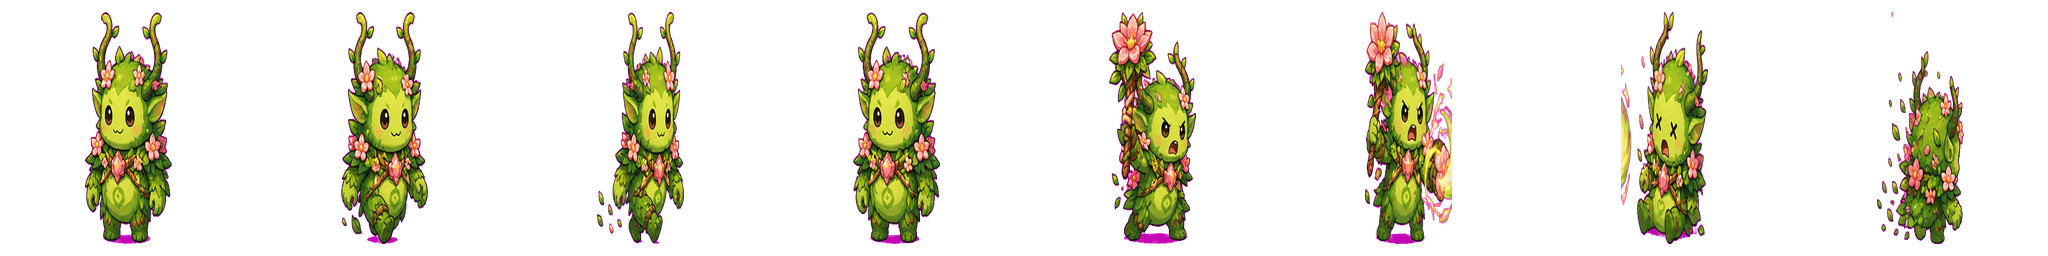
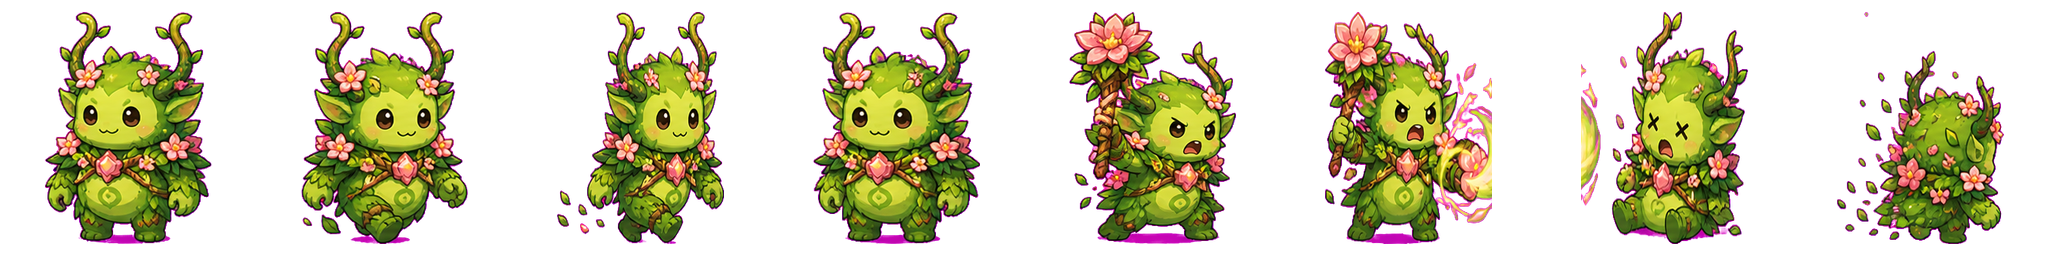
feat: add new world boss and monster assets; update display scaling and processing script

diff --git a/src/gameConfig.ts b/src/gameConfig.ts
@@ -193,13 +193,13 @@ export const WORLD_ENEMY_THEMES: Record<SeasonPreset, {
     eliteFramePrefix: 'world-elite-day-spring',
     eliteIdleFrames: [0, 1, 2, 3],
     eliteDefeatFrame: 7,
-    eliteDisplayScaleX: 1.95,
-    eliteDisplayScaleY: 0.98,
+    eliteDisplayScaleX: 1,
+    eliteDisplayScaleY: 1,
     bossAssetKey: 'worldBoss_day_spring',
     bossFramePrefix: 'world-boss-day-spring',
     bossIdleFrames: [0, 1, 2, 3],
     bossDefeatFrame: 7,
-    bossDisplayScaleX: 2.15,
+    bossDisplayScaleX: 1,
     bossDisplayScaleY: 1,
     eliteSpawnChance: 0.34,
     preferredArchetypes: ['sprite', 'blob', 'mushroom'],
@@ -214,13 +214,13 @@ export const WORLD_ENEMY_THEMES: Record<SeasonPreset, {
     eliteFramePrefix: 'world-elite-afternoon-summer',
     eliteIdleFrames: [0, 1, 2, 3],
     eliteDefeatFrame: 7,
-    eliteDisplayScaleX: 1.95,
-    eliteDisplayScaleY: 0.98,
+    eliteDisplayScaleX: 1,
+    eliteDisplayScaleY: 1,
     bossAssetKey: 'worldBoss_afternoon_summer',
     bossFramePrefix: 'world-boss-afternoon-summer',
     bossIdleFrames: [0, 1, 2, 3],
     bossDefeatFrame: 7,
-    bossDisplayScaleX: 2.15,
+    bossDisplayScaleX: 1,
     bossDisplayScaleY: 1,
     eliteSpawnChance: 0.38,
     preferredArchetypes: ['lizard', 'blob', 'acorn'],
@@ -235,13 +235,13 @@ export const WORLD_ENEMY_THEMES: Record<SeasonPreset, {
     eliteFramePrefix: 'world-elite-night-spring',
     eliteIdleFrames: [0, 1, 2, 3],
     eliteDefeatFrame: 7,
-    eliteDisplayScaleX: 2.05,
-    eliteDisplayScaleY: 0.98,
+    eliteDisplayScaleX: 1,
+    eliteDisplayScaleY: 1,
     bossAssetKey: 'worldBoss_night_spring',
     bossFramePrefix: 'world-boss-night-spring',
     bossIdleFrames: [0, 1, 2, 3],
     bossDefeatFrame: 7,
-    bossDisplayScaleX: 1.95,
+    bossDisplayScaleX: 1,
     bossDisplayScaleY: 1,
     eliteSpawnChance: 0.42,
     preferredArchetypes: ['sprite', 'mushroom', 'acorn'],
@@ -256,13 +256,13 @@ export const WORLD_ENEMY_THEMES: Record<SeasonPreset, {
     eliteFramePrefix: 'world-elite-noon-winter',
     eliteIdleFrames: [0, 1, 2, 3],
     eliteDefeatFrame: 7,
-    eliteDisplayScaleX: 2.25,
-    eliteDisplayScaleY: 0.98,
+    eliteDisplayScaleX: 1,
+    eliteDisplayScaleY: 1,
     bossAssetKey: 'worldBoss_noon_winter',
     bossFramePrefix: 'world-boss-noon-winter',
     bossIdleFrames: [0, 1, 2, 3],
     bossDefeatFrame: 7,
-    bossDisplayScaleX: 1.95,
+    bossDisplayScaleX: 1,
     bossDisplayScaleY: 1,
     eliteSpawnChance: 0.42,
     preferredArchetypes: ['mushroom', 'acorn', 'blob'],
